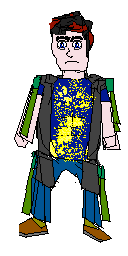
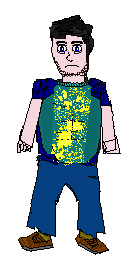
graphics update (mostly weapons) + mouse debugging

diff --git a/systems/spawner.js b/systems/spawner.js
@@ -10,11 +10,14 @@
 define(["./jQuery", "./Crafty"], function(jQuery, Crafty) {
 	return {
 		spawnCharacter: function(char_name, players_char_name, char_id){
+			// Layer constants
+			var transitional_layer = 5; // z-index starting point for any character
+		
 			if(char_name == players_char_name){
 				// Matches character we choose (spawning us)
 				Crafty.e("2D, DOM, wall_left, solid, "+char_name+", LeftControls, Text")
 				// Draw the sprite
-				.attr({x: 2, y: 2, z: 1})
+				.attr({x: 2, y: 100, z: transitional_layer})
 				// Add controls to this object
 				.leftControls(3)
 				.text("YOU")
@@ -60,18 +63,29 @@ define(["./jQuery", "./Crafty"], function(jQuery, Crafty) {
     					Crafty.audio.play("load_chamber",1,1);
       					console.log("Loaded chamber");
     				}
+    				// Save X Y coords (one instance shown in debug toolbar)
+    				if(e.key == Crafty.keys['Z']) {
+    					var x = jQuery("#mouse_x_coords").html();
+    					var y = jQuery("#mouse_y_coords").html();
+    					jQuery("#saved_mouse_coords").html(x+","+y);
+      					console.log("Saved X,Y coordinates "+x+","+y+" (will be overwritten when you save again)");
+    				}
     			});
 			}
 			else{
-				// Spawning bot
-				Crafty.e("2D, DOM, wall_left, solid, "+char_name+", Text")
-				// Draw the sprite
-				.attr({x: (80+(60*char_id)), y: (40*char_id), z: (1*char_id)})
-				.text("(Bot)")
-  				.textColor(this.characterColor(char_name), '0.9')
-  				.textFont({ type: 'italic', family: 'Arial', size: '20px', weight: 'bold' });
-  				// Spawning bots gun
-				Crafty.e("2D, DOM, wall_left, solid, gun2, Text").attr({x: (80+(60*char_id)), y: (40*char_id), z: (1*char_id)});
+				/* Spawning bot */
+				Crafty.e("2D, DOM, wall_left, solid, "+char_name+", Tween, Text")
+					// Draw the sprite
+					.attr({x: (80+(60*char_id)), y: (40*char_id), z: (1*char_id)})
+					// Bot paths (currently implemented as single static path using tween)
+  					.tween({x: (130*char_id), y: (430+(6*char_id))}, 300)
+					.text(char_name+" (Bot)")
+  					.textColor(this.characterColor(char_name), '0.9')
+  					.textFont({ type: 'italic', family: 'Arial', size: '20px', weight: 'bold' });
+  				/* Spawning bots gun */
+				Crafty.e("2D, DOM, wall_left, solid, gun1, Tween, Text")
+					.attr({x: (80+(60*char_id)), y: (40*char_id), z: (1*char_id) + transitional_layer})
+					.tween({x: (130*char_id), y: (430+(6*char_id))}, 300);
 			}
 		},
 		characterColor: function(character){

diff --git a/systems/maps.js b/systems/maps.js
@@ -21,19 +21,29 @@ define(["./jQuery", "./Crafty"], function(jQuery, Crafty) {
 			Crafty.sprite(24, "multimedia/"+contentpack+"-contentpack/images/textures/flooring/default_floor.png", {
    				floor_tile: [0, 0]
 			});
+			Crafty.sprite(24, "multimedia/"+contentpack+"-contentpack/images/textures/walls/proto_wall.png", {
+   				wall_tile: [0, 0]
+			});
 	
 			var map_size_x = resolution_width;
 			var map_size_y = resolution_height;
 			var flooring_size_per_unit_x = 24;
 			var flooring_size_per_unit_y = 24;
 			for (i_x = 0; i_x < (map_size_x / flooring_size_per_unit_x); i_x++){
+				// Draw the walls
+				Crafty.e("2D, DOM, wall_left, solid, wall_tile").attr({x: i_x * flooring_size_per_unit_x, y: 0, z: 2, w: 24, h: 256});	
 				for (i_y = 0; i_y < (map_size_y / flooring_size_per_unit_y); i_y++){
 					/* Map (draw 24x24 tile to file 480x480 space (4000 tiles) */
-					Crafty.e("2D, DOM, wall_left, solid, floor_tile")
-						// Draw the sprite
-						.attr({x: i_x * flooring_size_per_unit_x, y: i_y * flooring_size_per_unit_y, z: 1});
+					// Draw the floors
+					Crafty.e("2D, DOM, wall_left, solid, floor_tile").attr({x: i_x * flooring_size_per_unit_x, y: i_y * flooring_size_per_unit_y, z: 1});
 				}
 			}
+			/* Decorations */
+			var background_layer = 4; // TODO: Move this repeated variable into config
+			Crafty.e("2D, DOM, wall_left, solid, gun1, Tween, Text")
+				.attr({x: 1050, y: 220, z: background_layer, rotation: -55})
+			Crafty.e("2D, DOM, wall_left, solid, gun2, Tween, Text")
+					.attr({x: 1170, y: 100, z: background_layer, rotation: 45})
 		}
 	}
 });

diff --git a/systems/gameobjects.js b/systems/gameobjects.js
@@ -10,12 +10,16 @@
 define(["./jQuery", "./Crafty", "./scores", "./Gun.MOD", "./audio", "./notification"], function(jQuery, Crafty, scores, Gun, audio, notification) {
 	return gameObjects = {
 		gameObjects: function(character){
-			/* Guns */
-			Crafty.e("2D, DOM, wall_left, solid, gun1, LeftControls")
-				// Draw the sprite
-				.attr({x: 12, y: 0, z: 2})
-				// Add controls to this object
+			var transitional_layer = 5; // TODO: Move this repeated variable into config
+			/* Give yourself some glocks */
+			Crafty.e("2D, DOM, wall_left, solid, gun2, LeftControls")
+				.attr({x: 0, y: 108, z: transitional_layer + 1})
 				.leftControls(3);
+			Crafty.e("2D, DOM, wall_left, solid, gun2, LeftControls")
+				.attr({x: 65, y: 108, z: transitional_layer + 1})
+				.leftControls(3);
+			// TODO: Use this future format when function no longer has memory leak
+			/* Gun.wield('gun2', 'dual', new Array("1", "104")); */
 
 			/* Enemies */
 			Crafty.e("2D, DOM, Color, Mouse, wall_left, solid, brutal")
@@ -52,7 +56,7 @@ define(["./jQuery", "./Crafty", "./scores", "./Gun.MOD", "./audio", "./notificat
     	
     		 // Supplies box (Can be expanded upon later)
 			 Crafty.e("2D, DOM, Color, Mouse, storageBox, solid")
-    			.attr({ x: 1080, y: 50, z: 1, w: 128, h: 128})
+    			.attr({ x: 1080, y: 150, z: 3, w: 128, h: 128})
     			.bind('Click', function() {
     				notification.highlight("MAX AMMO", "Found ammo from supplies box");
     				console.log("Gave yourself maximum ammunition");

diff --git a/systems/debug.js b/systems/debug.js
@@ -29,8 +29,9 @@ define(["./jQuery", "./Crafty"], function(jQuery, Crafty) {
 				});
 			});
 		/* jQuery event handlers (for Debug) */ },
-		initDebugger: function(){
-			debug.pointsDebugger();
+		initDebugger: function(event){
+			debug.pointsDebugger(event);
+			debug.mouseDebugger(event);
 		},
 		pointsDebugger: function(event){
 			if (event != null){
@@ -52,6 +53,20 @@ define(["./jQuery", "./Crafty"], function(jQuery, Crafty) {
 			jQuery("#score_debug_panel").toggle();
 			// Hide or show Developer hints
 			jQuery(".devhint").toggle();
+		},
+		mouseDebugger: function(event){
+			// Hide or show mouse debug panel
+			jQuery("#mouse_debug_panel").toggle();
+			
+			// Variables for tracking mouse
+    		var mouseX, mouseY;
+    		var canvas = jQuery('#cr-stage').get(0);
+   			
+   			// Realtime mouse coords debugging
+   			canvas.addEventListener('mousemove', function (mouse) {
+    			jQuery("#mouse_x_coords").html(mouse.pageX - canvas.offsetLeft);
+				jQuery("#mouse_y_coords").html(mouse.pageY - canvas.offsetTop);
+    		}, 0);
 		}
 	}
 });

diff --git a/modules/gun/gun.module.js b/modules/gun/gun.module.js
@@ -48,6 +48,31 @@ define(["./jQuery", "./KO"], function(jQuery, ko) {
   					console.log("Loaded "+item.subitem.amount+" bullets for "+item.name+" (item "+itemIteration+")");
 				});
 			});
+		},
+		// TODO: Find the memory leak bug in this function, and use to spawn guns when fixed
+		wield: function(gun_sprite, single_or_dual, dimensions){
+			if(single_or_dual == "dual"){
+				var gun_count = 2;
+			}
+			else{
+				var gun_count = 1;
+			}
+			// Default dimension offsets
+			var weapon_layer = 6;
+			
+			for(var gun_counter = 1; gun_counter <= gun_count; gun_counter++){
+				if(gun_counter == 2){
+					var gun_x = (dimensions[0]*2)+10;
+				}
+				else{
+					var gun_x = dimensions[0];
+				}
+				Crafty.e("2D, DOM, wall_left, solid, "+gun_sprite+", LeftControls")
+				// Draw the sprite
+				.attr({x: gun_x, y: 98, z: weapon_layer})
+				// Add controls to this object
+				.leftControls(3);
+			}
 		}
 	}
 });

diff --git a/windows/debug/debug.css b/windows/debug/debug.css
@@ -1,0 +1,41 @@
+/* Inline panels */
+#debug_window{
+	background-color: brown;Position
+}
+#score_debug_panel, #mouse_debug_panel, #mouse_debug_panel > dl{
+	display: inline;
+}
+/* Mouse debug styling */
+#mouse_debug_panel > dl > dt, #mouse_debug_panel > dl > dd{
+	display: inline-block;
+}
+#mouse_x_label{
+	font-size: 1.5em;
+	padding: 0px 5px 0px 5px;
+	color: orange;
+}
+#mouse_x_coords{
+	font-size: 1.4em;
+	padding: 0px 5px 0px 5px;
+	color: hotpink;
+}
+#mouse_y_label{
+	font-size: 1.5em;
+	padding: 0px 5px 0px 5px;
+	color: yellow;
+}
+#mouse_y_coords{
+	font-size: 1.4em;
+	padding: 0px 5px 0px 5px;
+	color: pink;
+}
+#mouse_clipboard_label{
+	font-size: 1.4em;
+	padding: 5px;
+	color: cyan;
+}
+#saved_mouse_coords{
+	font-size: 1.3em;
+	padding: 5px;
+	color: lime;
+}

diff --git a/index.html b/index.html
@@ -1,10 +1,10 @@
 <!DOCTYPE html>
 	<head>	
 		<link rel="stylesheet" href="style.css" />
+		<script data-main="bootstrap" src="dependencies/requirejs/require.js"></script>
 	</head>
 	<body>
 		<div id="header_window"></div>
-		<script data-main="bootstrap" src="dependencies/requirejs/require.js"></script>
 		<div id="characterselection_window"></div>
 		<div id="marquee_window"></div>
 		<div id="social_window"></div>

diff --git a/systems/marquee.js b/systems/marquee.js
@@ -46,7 +46,7 @@ define(["./jQuery", "./Crafty", "./windows", "./scores", "./audio", "./controls"
 		
 			// Enable or disable debugging UI
 			jQuery('#marquee_window').on("click", "#debug_toggle", function(event){
-				debug.pointsDebugger(event);
+				debug.initDebugger(event);
 			});
 			jQuery('#marquee_window').on("mouseenter", "#debug_toggle", function(event){
 				controls.hints("debug", event);

diff --git a/game.js b/game.js
@@ -75,7 +75,7 @@ define(['jQ.xslt', 'config', 'characterselection', 'scores', 'audio', 'health', 
 			health.lifeSetup();
 		
 			// Enable debugging (but hide from view)
-			debug.initDebugger();
+			debug.initDebugger(null);
 			
 			// New gun module interface 
 			// TODO: Use this standard for all other modules, or evolve upon it

diff --git a/windows/inventory/inventory.css b/windows/inventory/inventory.css
@@ -4,7 +4,7 @@
 	display: inline;
 	float: right;
 	opacity: 0.85;
-	margin: 0;
+	margin: 12px 320px 0px 0px;
 	padding: 0;
 }
 #inventory_container{
@@ -32,8 +32,8 @@
 }
 .item_sprite{
 /* Use css sprite for partial image */
-	width: 130px;
-	height: 190px;
+	width: 128px;
+	height: 155px;
 	display: inline-block;
 	float: center;
 }

diff --git a/stylesheets/default-theme/themeroller_styling/windows.css b/stylesheets/default-theme/themeroller_styling/windows.css
@@ -8,6 +8,9 @@
 /* Marquee stylesheet */
 @import url('../../../windows/marquee/marquee.css');
 
+/* Debugging stylesheet */
+@import url('../../../windows/debug/debug.css');
+
 /* Scores stylesheet */
 @import url('../../../windows/scores/scores.css');
 

diff --git a/modules/gun/gun.module.css b/modules/gun/gun.module.css
@@ -12,8 +12,8 @@
 }
 .actual_bullet_list > li{
     float: left;
-    width: 16px;
-    height: 64px;
+    width: 12px;
+    height: 32px;
     margin: 0;
 	padding: 0;
 }
